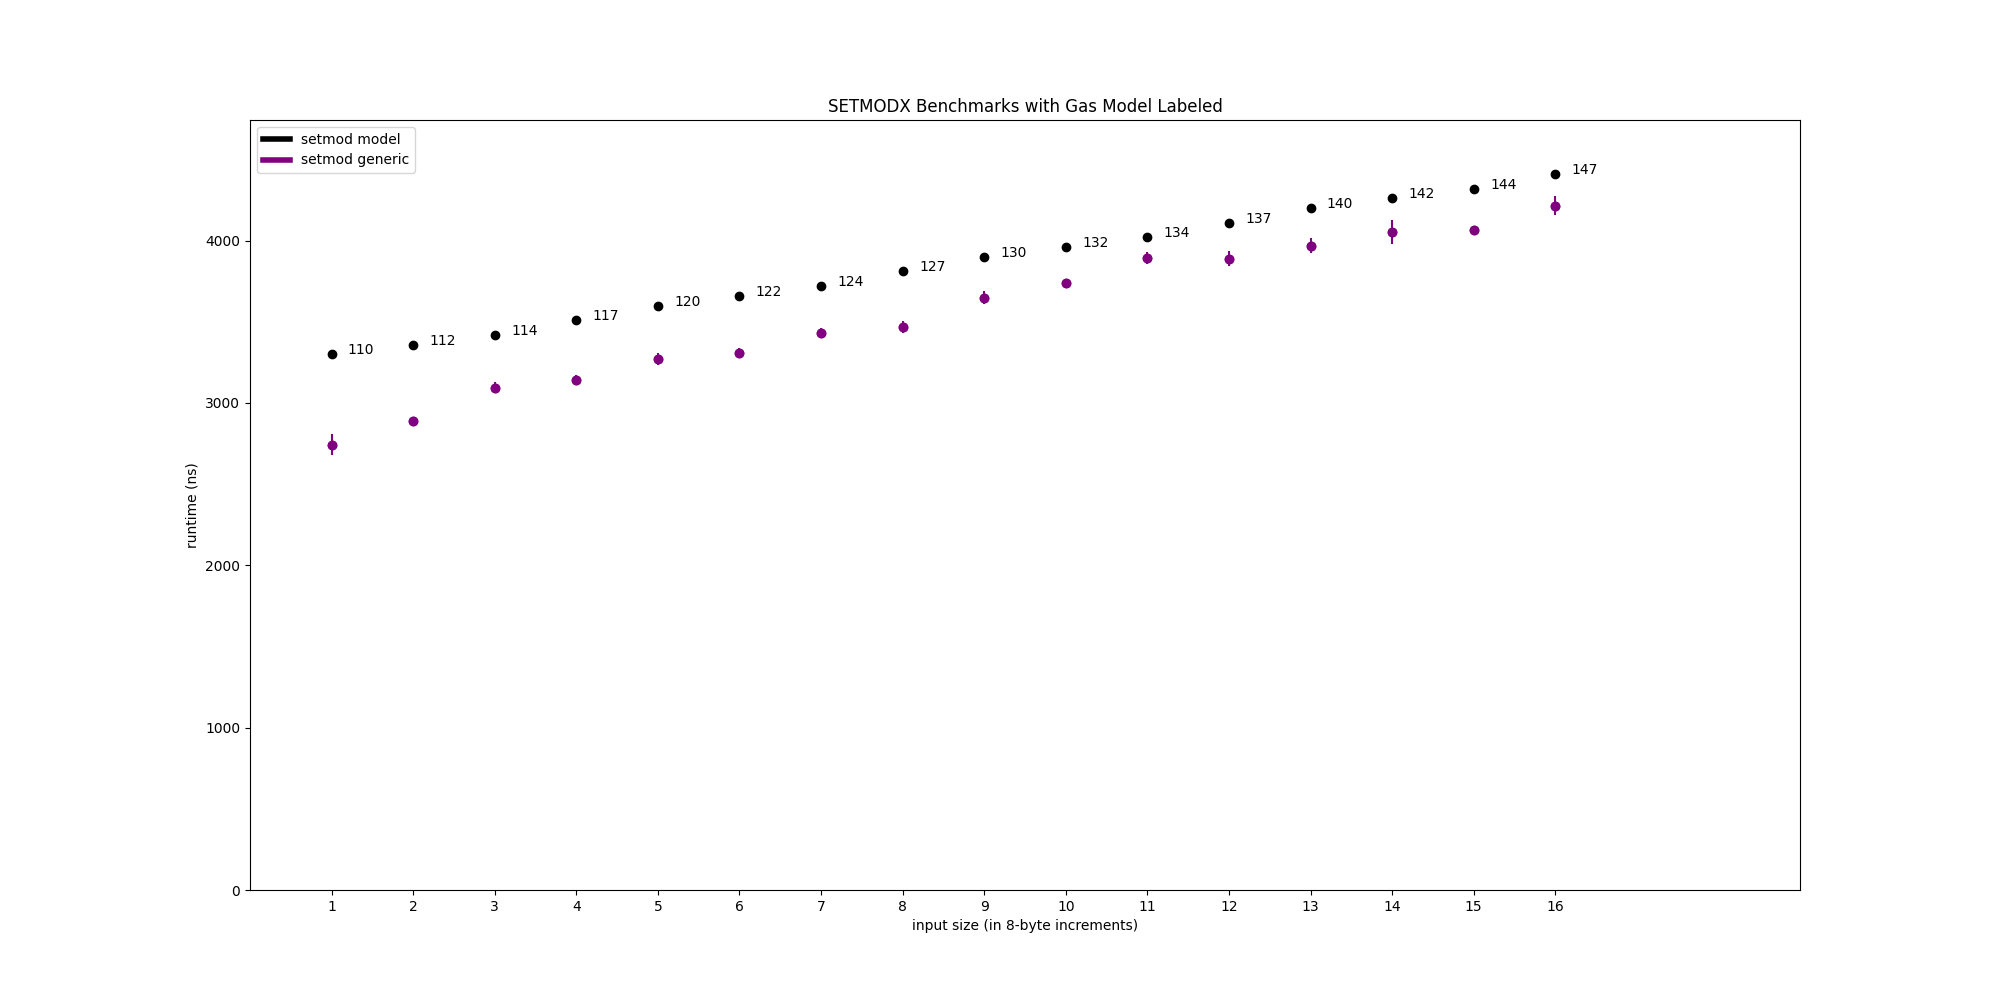
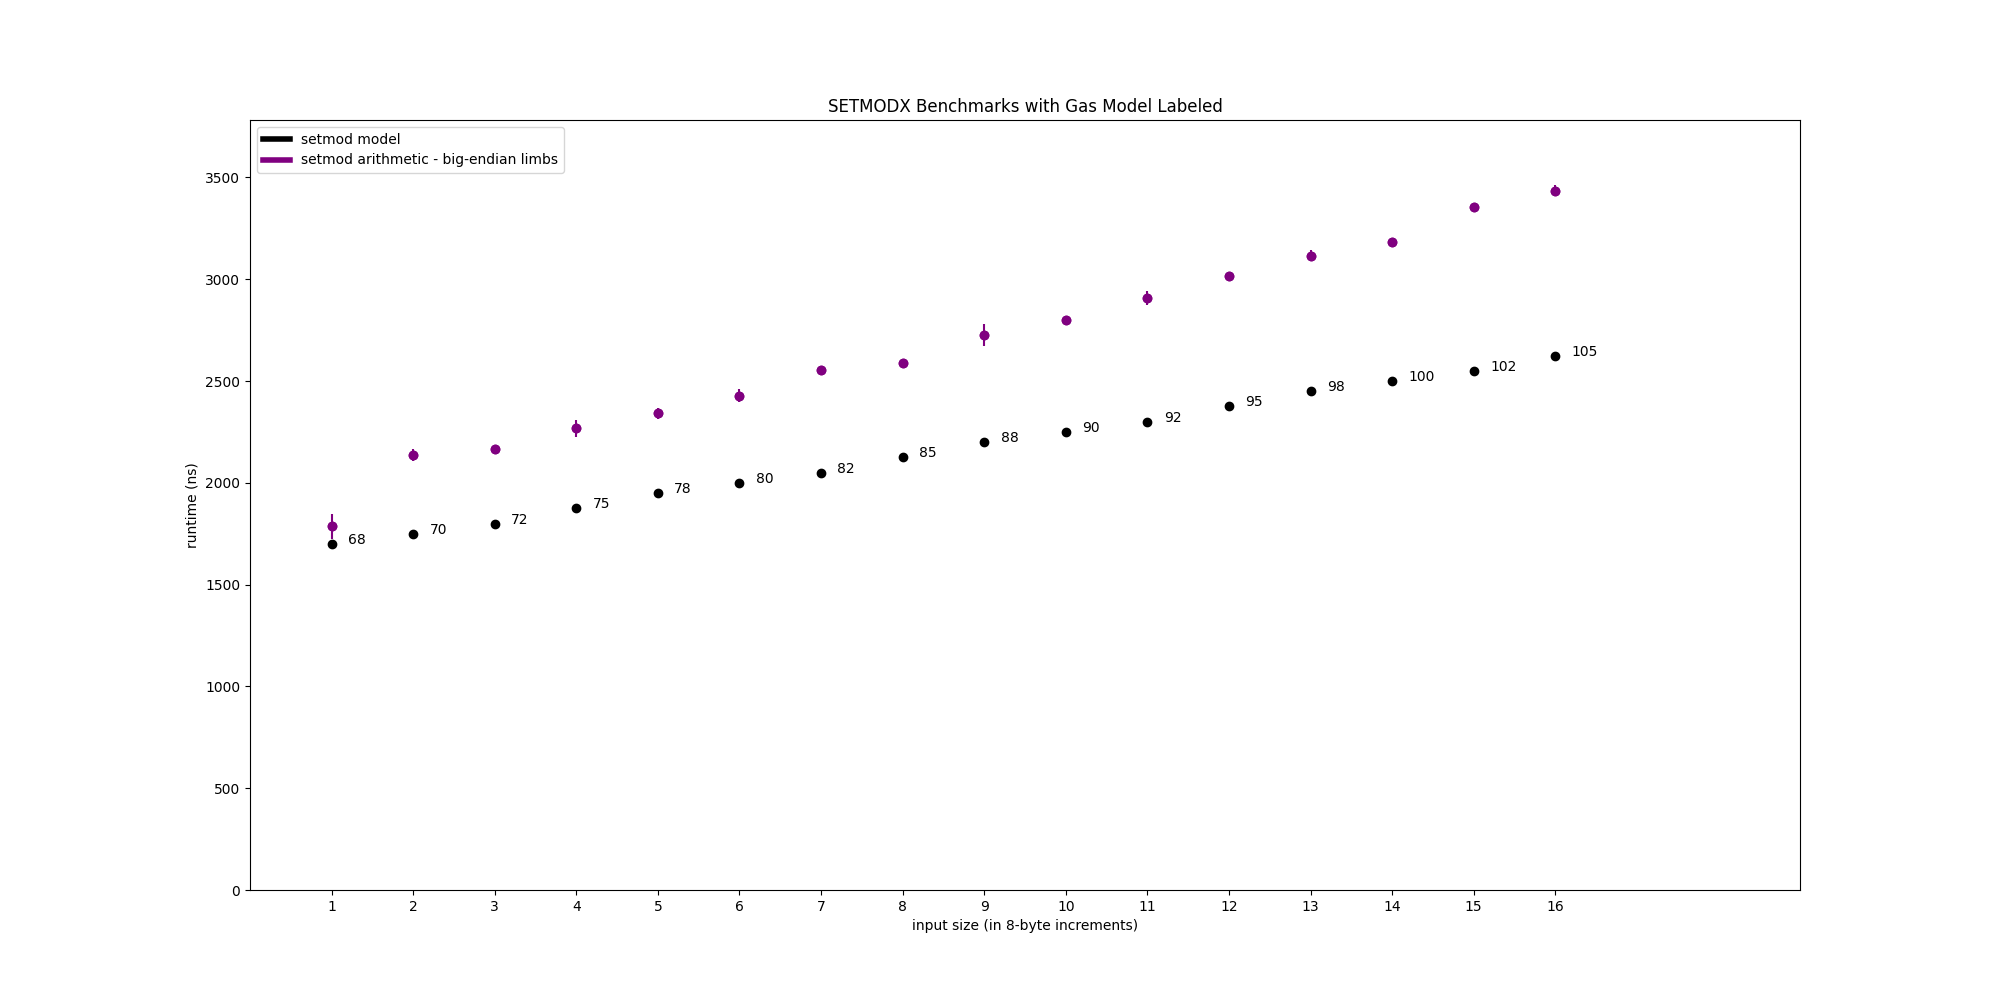
wip

diff --git a/plot.py b/plot.py
@@ -12,15 +12,17 @@ import math, sys, re, statistics, os
 
 from matplotlib.pyplot import figure
 
-# 30 ns / gas
-GAS_RATE = 30.0
+# 25 ns / gas
+GAS_RATE = 25.0
 
 evm_be_color = "#ff7878"
 go_arith_be_color = "#E24C4C"
 evm_le_color = "#ffff78"
 go_arith_le_color = "#a0a011"
 model_color = "black"
-asm384_color = "green"
+asm384_color = "#61CD61"
+asm384_arith_color = "#1EA41E"
+setmod_color = "purple"
 
 def group_data(lines: [str]) -> [str]:
     result = {}
@@ -380,8 +382,8 @@ def format_model_eqn_for_graphing(model: [int], xs: [int]):
 # TODO remove this
 fast_mulmont_cutoff = 49
 
-setmod_eqn = [2.5, 107.0]
-mulmont_eqn_low = [0.092, -0.01, 0.24]
+setmod_eqn = [2.5, 65.0]
+mulmont_eqn_low = [0.095, 0, 1.00]
 # TODO remove this (mulmont/setmod will have one gas model)
 mulmont_eqn_hi = [0.0004, 9.88, -268.0]
 addmod_eqn = [0.22, 0.144]
@@ -416,6 +418,13 @@ submod_generic_data = format_bench_data_for_graphing((1, 100000), go_arith_bench
 # setmod_non_unrolled_data = format_bench_data_for_graphing((1, 64), go_arith_benchmarks['setmod']['non-unrolled'], 'setmod-non-unrolled', 'red')
 setmod_generic_data = format_bench_data_for_graphing((1, 100000), go_arith_benchmarks['setmod']['generic'], 'setmod-generic', 'blue')
 
+setmod_arith_be = prep_data_for_graphing(go_arith_benchmarks_be['setmod']['non-unrolled'], "setmod arithmetic - big-endian limbs", setmod_color)
+
+mulmont_arith_asm384 = prep_data_for_graphing(go_arith_benchmarks['mulmont']['asm384'], 'mulmont arithmetic - little-endian limbs', asm384_arith_color)
+addmod_arith_asm384 = prep_data_for_graphing(go_arith_benchmarks['addmod']['asm384'], 'addmod arithmetic - little-endian limbs', asm384_arith_color)
+submod_arith_asm384 = prep_data_for_graphing(go_arith_benchmarks['submod']['asm384'], 'submod arithmetic - little-endian limbs', asm384_arith_color)
+import pdb; pdb.set_trace()
+
 #scatterplot_ns_data("charts/mulmont_generic.png", "MULMONTMAX Generic Benchmarks", False, [mulmont_non_unrolled_data, mulmont_generic_data])
 #scatterplot_ns_data('charts/setmod.png', 'SETMOD Benchmarks', False, [setmod_non_unrolled_data, setmod_generic_data])
 #scatterplot_ns_data('charts/addmod.png', 'ADDMOD Benchmarks', False, [addmod_non_unrolled_data])
@@ -442,7 +451,7 @@ mulmont_model = prep_models_for_graphing([(mulmont_eqn_low, fast_mulmont_cutoff)
 mulmont_evmmax = stitch_data(go_arith_benchmarks['mulmont']['non-unrolled'], go_arith_benchmarks['mulmont']['generic'], fast_mulmont_cutoff, "mulmont arithmetic (little-endian)", go_arith_le_color)
 #scatterplot_ns_data("charts/mulmontx_all.png", "MULMONTX Benchmarks", (1, 100000), [False, False], ["o", "-"], [mulmont_evmmax, mulmont_model])
 # scatterplot_ns_data("charts/mulmontx_med.png", "MULMONTX Benchmarks", (1, 64), [False, False], ["o", "o"], [mulmont_evmmax, mulmont_model])
-scatterplot_ns_data("charts/mulmontx_low.png", "MULMONTX Benchmarks with Gas Model Labeled", (1, 8), [False, False, True, False, False, False], ["o", "o", "o", "o", "o", "o"], [mulmont_evmmax, mulmont_go_arith_be, mulmont_model, mulmont_evm_le, mulmont_evm_be, mulmont_evm_le_asm_384bit])
+scatterplot_ns_data("charts/mulmontx_low.png", "MULMONTX Benchmarks with Gas Model Labeled", (1, 8), [False, False, True, False, False, False, False], ["o", "o", "o", "o", "o", "o", "o"], [mulmont_evmmax, mulmont_go_arith_be, mulmont_model, mulmont_evm_le, mulmont_evm_be, mulmont_evm_le_asm_384bit, mulmont_arith_asm384])
 
 addmod_model = prep_models_for_graphing([(addmod_eqn, 100000)], 'addmod model', benches_xs)
 
@@ -451,11 +460,11 @@ addmod_model = prep_models_for_graphing([(addmod_eqn, 100000)], 'addmod model', 
 addmod_evmmax = stitch_data(go_arith_benchmarks['addmod']['generic'], go_arith_benchmarks['addmod']['generic'], 100000, "addmod arithmetic (little-endian)", go_arith_le_color)
 submod_evmmax = stitch_data(go_arith_benchmarks['submod']['generic'], go_arith_benchmarks['submod']['generic'], 100000, "submod arithmetic (little-endian)", go_arith_le_color)
 
-scatterplot_ns_data("charts/addmodx_low.png", "ADDMODX Benchmarks with Gas Model Labelled", (1, 16), [False, False, True, False, False, False], ["o", "o", 'o', 'o', 'o', 'o'], [addmod_evmmax, addmod_go_arith_be, addmod_model, addmod_evm_le, addmod_evm_le_asm_384bit, addmod_evm_be])
+scatterplot_ns_data("charts/addmodx_low.png", "ADDMODX Benchmarks with Gas Model Labelled", (1, 16), [False, False, True, False, False, False, False], ["o", "o", 'o', 'o', 'o', 'o', "o"], [addmod_evmmax, addmod_go_arith_be, addmod_model, addmod_evm_le, addmod_evm_le_asm_384bit, addmod_evm_be, addmod_arith_asm384])
 # scatterplot_ns_data("charts/addmodx_med.png", "ADDMODX Benchmarks", (1, 64), [False, False], ["o", 'o'], [addmod_evmmax, addmod_model])
 # scatterplot_ns_data("charts/addmodx_all.png", "ADDMODX Benchmarks", (1, 100000), [False, False], ["o", '-'], [addmod_evmmax, addmod_model])
 
-scatterplot_ns_data("charts/submodx_low.png", "SUBMODX Benchmarks with Gas Model Labelled", (1, 16), [False, False, True, False, False, False], ["o", 'o', 'o', 'o', 'o', 'o'], [submod_evmmax, submod_go_arith_be, addmod_model, submod_evm_le, submod_evm_le_asm_384bit, submod_evm_be])
+scatterplot_ns_data("charts/submodx_low.png", "SUBMODX Benchmarks with Gas Model Labelled", (1, 16), [False, False, False, False, True, False, False], ["o", 'o', 'o', 'o', 'o', 'o', "o"], [submod_go_arith_be,  submod_evm_le, submod_evm_le_asm_384bit, submod_arith_asm384, addmod_model, submod_evm_be, submod_evmmax])
 # scatterplot_ns_data("charts/submodx_med.png", "SUBMODX Benchmarks", (1, 64), [False, False], ["o", 'o'], [submod_evmmax, addmod_model])
 # scatterplot_ns_data("charts/submodx_all.png", "SUBMODX Benchmarks", (1, 100000), [False, False], ["o", '-'], [submod_evmmax, addmod_model])
 
@@ -464,4 +473,4 @@ setmod_model = prep_models_for_graphing([(setmod_eqn, 100000)], 'setmod model', 
 
 # scatterplot_ns_data("charts/setmodx_all.png", "SETMODMAX Benchmarks", (1, 100000), [False, False], ["-", "o"], [setmod_model, setmod_evmmax])
 # scatterplot_ns_data("charts/setmodx_med.png", "SETMODMAX Benchmarks", (1, 64), [False, False], ["-", "o"], [setmod_model, setmod_evmmax])
-scatterplot_ns_data("charts/setmodx_low.png", "SETMODX Benchmarks with Gas Model Labeled", (1, 16), [True, False], ["o", "o"], [setmod_model, setmod_evmmax])
+scatterplot_ns_data("charts/setmodx_low.png", "SETMODX Benchmarks with Gas Model Labeled", (1, 16), [True, False], ["o", "o"], [setmod_model, setmod_arith_be])
